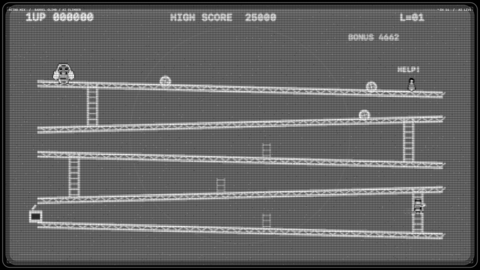
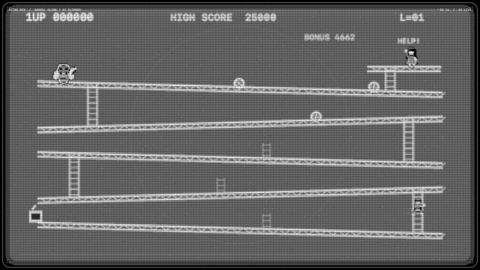
Update Barrel Climb for 1.9.7

diff --git a/README.md b/README.md
@@ -24,7 +24,7 @@ The image shows an already unlocked JMR license.
 
 ## Download and install
 
-Download the ZIP from [version 1.9.6](https://github.com/mikaelmoran/retro-mix-arcade-downloads/releases/tag/v1.9.6), expand it, and move
+Download the ZIP from [version 1.9.7](https://github.com/mikaelmoran/retro-mix-arcade-downloads/releases/tag/v1.9.7), expand it, and move
 **Retro Mix Arcade.app** to Applications. Open the app, choose a game, and
 click **Save selection**. In **System Settings → Wallpaper → Screen Saver**,
 choose **Retro Mix Arcade**.
@@ -75,7 +75,7 @@ Security → Open Anyway** as described in [Apple's instructions](https://suppor
   plans its next landing. They draw inspiration from Centipede and Frogger.
 - Horizon Defense, Barrel Climb, and Line Capture are inspired by Defender,
   Donkey Kong, and Qix. Their AI pilots intercept aliens over a scrolling world, jump and climb
-  around barrels that roll downhill, and draw lines to claim territory while avoiding hazards. Each has four optional
+  around barrels that roll downhill to a raised rescue platform, and draw lines to claim territory while avoiding hazards. Each has four optional
   game effects alongside the shared CRT controls.
 - Karate Duel features two AI fighters with detailed pixel-art sprites, animated punches, spinning and low kicks, blocks,
   scoring rounds, and a referee with a bonus celebration. It draws inspiration from Karate Champ.

diff --git a/RELEASE_NOTES.md b/RELEASE_NOTES.md
@@ -1,7 +1,5 @@
-# Retro Mix Arcade 1.9.6
+# Retro Mix Arcade 1.9.7
 
-- Redesigned Garden Swarm creatures with shaded, animated pixel-art cels.
-- Added detailed frog, turtle and crocodile artwork to River Crossing.
-- Refined Horizon Defense spacecraft and animated invaders.
-- Redesigned Barrel Climb characters with multi-tone sprites and improved running, jumping and climbing poses.
-- Retains the shared monochrome CRT treatment and existing effects.
+- Added a raised rescue platform and a final ladder to Barrel Climb.
+- Redesigned and animated the character waiting to be rescued.
+- Connected the rescue target to the new platform and adjusted the HUD layout.
